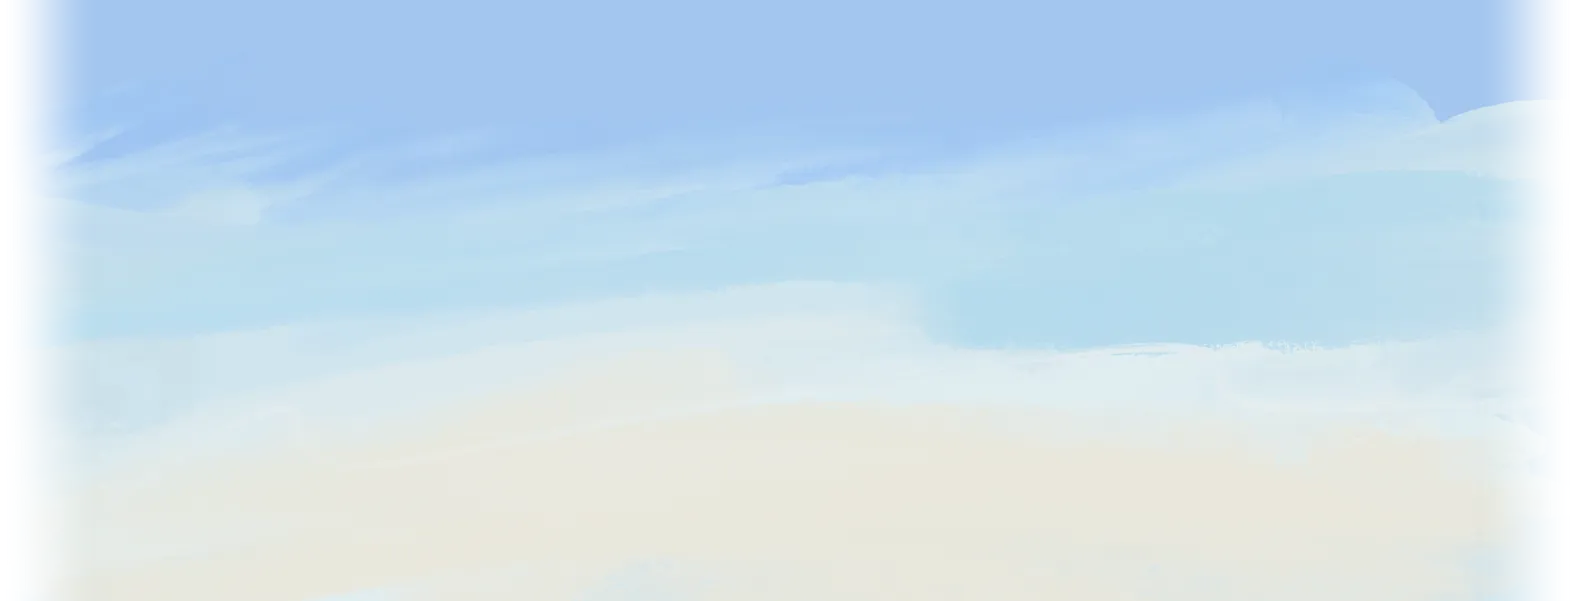
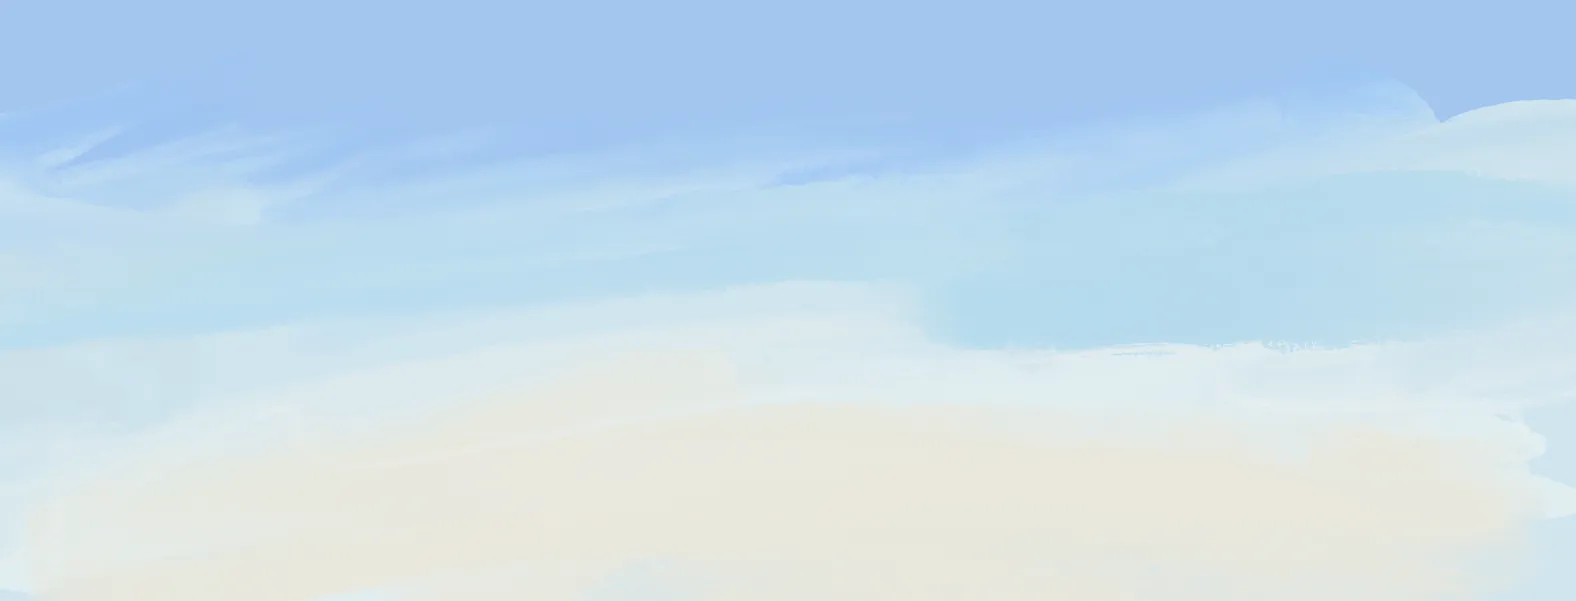
Sky band: continue past the painting with mirrored copies of the sky piece instead of edge gradients

Changed region(s): [[0.9327, 0.0, 1.0, 1.0], [0.0, 0.0, 0.0622, 1.0]]

diff --git a/app/assets/stylesheets/landing_world_sky.css b/app/assets/stylesheets/landing_world_sky.css
@@ -1,8 +1,7 @@
 /* Band: sky. Owned by the sky band agent only. Shared rules, colors, the --wu unit and the contract are in landing_world.css.
  *
  * The painted sky is sky@*.webp: canvas y 1498..2700 (601 wu tall), bottom edge on the bottom of .how, 1576 wu wide, centered. It is
- * opaque, but fades out over 100 wu at each side, where the .sky__edge gradients (the painting's own edge colors, blurred) carry it
- * past the painting's width. The whole .sky__paint layer fades in from nothing over its first 120 px, so the hero's flat blue
+ * opaque. Past its width mirrored copies of it carry it on (see below). The whole .sky__paint layer fades in from nothing over its first 120 px, so the hero's flat blue
  * (#9dc4fd) runs into the painting with no line, however tall .how turns out. Below the swoosh the wrapper clips the paint at
  * the top of .how. The sky continues under the clifftop (the cliff band covers it), so the bottom of .how is never seen as sky.
  * The pole foot of the signpost is the one thing that must land on the cliff band's art: see .how__inner below. */
@@ -13,15 +12,18 @@
   -webkit-mask-image: linear-gradient(to bottom, transparent, #000 120px); mask-image: linear-gradient(to bottom, transparent, #000 120px);
 }
 .landing .world__sky { left: 50%; bottom: 0; width: calc(var(--wu) * 1576); margin-left: calc(var(--wu) * -788); }
-.landing .sky__edge { position: absolute; bottom: 0; height: calc(var(--wu) * 601); width: max(0px, calc(50% - var(--wu) * 688)); }
-.landing .sky__edge--left {
-  left: 0;
-  background: linear-gradient(to bottom, #a3c6ef 0%, #a3c6ef 12.5%, #a3c7f0 16.6%, #a1c8f3 20.8%, #a7ccf3 25%, #b7d6f2 29.1%, #c2ddf0 33.3%, #bedbf0 37.4%, #c2dcee 41.6%, #c6deeb 45.8%, #c3deec 49.9%, #bedeee 54.1%, #c4dfec 58.2%, #cce1eb 62.4%, #cce0eb 66.6%, #cfe3ec 70.7%, #d5e6ed 74.9%, #d6e7ed 79%, #dae9ed 83.2%, #dce9ec 87.4%, #dfebed 91.5%, #e0edef 95.7%, #d3e6ef 99.8%);
-}
-.landing .sky__edge--right {
-  right: 0;
-  background: linear-gradient(to bottom, #a3c6ef 0%, #a3c6ef 12.5%, #b8d5ee 16.6%, #c7dfed 20.8%, #cbe2ed 25%, #cae2ed 29.1%, #bdddee 33.3%, #bedeed 37.4%, #c5e0ec 41.6%, #c5dfec 45.8%, #c8e1ed 49.9%, #d0e4ed 54.1%, #d4e5ed 58.2%, #d6e7ef 62.4%, #d4e7ef 66.6%, #d0e5ef 70.7%, #d0e5ef 74.9%, #d4e7ef 79%, #dfedf0 83.2%, #d3e7ef 87.4%, #d0e5ef 91.5%, #d0e5ef 95.7%, #d0e5ef 99.8%);
-}
+/* Copies one and two painting widths out on each side. Narrower than the painting they would be off screen, so they are not shown
+   (and not loaded) until the window is wider than it. The first copy on a side is mirrored about the painting's edge, so the
+   two meet as one brushstroke; the second is the plain piece again. */
+.landing .world .sky__copy { display: none; }
+.landing .sky__copy--l1 { transform: translateX(calc(var(--wu) * -1576)); }
+.landing .sky__copy--r1 { transform: translateX(calc(var(--wu) * 1576)); }
+.landing .sky__copy--l2 { transform: translateX(calc(var(--wu) * -3152)); }
+.landing .sky__copy--r2 { transform: translateX(calc(var(--wu) * 3152)); }
+.landing .sky__copy--mirror.sky__copy--l1 { transform: translateX(calc(var(--wu) * -1576)) scaleX(-1); }
+.landing .sky__copy--mirror.sky__copy--r1 { transform: translateX(calc(var(--wu) * 1576)) scaleX(-1); }
+@media (min-width: 1580px) { .landing .world .sky__copy--l1, .landing .world .sky__copy--r1 { display: block; } }
+@media (min-width: 3200px) { .landing .world .sky__copy--l2, .landing .world .sky__copy--r2 { display: block; } }
 
 /* Clouds, at the painting's spots: canvas x 203..951 and 2078..2826, y 1851..2045 and 1985..2179, so their bottoms are 327 and 260 wu
    above the bottom of .how. The signpost's boards are wider than a phone, so each cloud may only use the sky beside the boards

diff --git a/script/export_landing_world.py b/script/export_landing_world.py
@@ -84,34 +84,16 @@ art.save(work / "art-clean-full.png")
 # 1. Cloud (layer 32; layer 33 is the same cloud, so one file serves both): sky band.
 layer = layer_full(32)
 save("sky", "cloud", layer.crop(layer.getchannel("A").getbbox()))
-# 1b. The sky itself (layer 2, which also runs under the clifftop): opaque, faded out at both sides; the printed edge colors fill the
-#     band past it (landing_world_sky.css).
-SKY_Y0, SKY_Y1 = 1498, 2700   # the sky layer (2) under the hero swoosh down to the .how bottom
-SKY_FADE = 200                # px each side that fade out; the band fills past them with an edge gradient
+# 1b. The sky itself (layer 2, which also runs under the clifftop): opaque, full width. The page shows mirrored copies of it past
+#     both sides (landing_world_sky.css), so its left and right edges must stay the painting's own.
+SKY_Y0, SKY_Y1 = 1498, 2700   # from under the hero swoosh down to the .how bottom
 sky = layer_full(2).crop((0, SKY_Y0, W, SKY_Y1))
 top = np.array(sky.getchannel("A"))[100:200, 800:2400] > 250  # a solid stretch, to take the flat top color from
 rgb = np.array(sky.convert("RGB"))
 top_color = tuple(int(v) for v in np.median(rgb[100:200, 800:2400][top], axis=0))
 flat = Image.new("RGBA", sky.size, top_color + (255,))
 flat.alpha_composite(sky)                                  # no transparent holes where the painted edge dips under the swoosh
-base = np.array(flat)
-ramp = np.linspace(0, 1, SKY_FADE)
-smooth = ramp * ramp * (3 - 2 * ramp)
-edge = np.ones(W, dtype=np.float32)
-edge[:SKY_FADE], edge[-SKY_FADE:] = smooth, smooth[::-1]
-fade = flat.copy()
-fade.putalpha(Image.fromarray((np.tile(edge, (flat.height, 1)) * 255).astype(np.uint8)))
-save("sky", "sky", fade)
-# The band beyond 1576 px is filled with each edge's own colors, blurred so no brushwork streaks sideways.
-for side, cols in (("left", base[:, :60]), ("right", base[:, -60:])):
-    col = cols[:, :, :3].mean(axis=1)
-    k = np.exp(-0.5 * (np.arange(-60, 61) / 20.0) ** 2)
-    k /= k.sum()
-    pad = np.pad(col, ((60, 60), (0, 0)), mode="edge")
-    sm = np.stack([np.convolve(pad[:, c], k, mode="valid") for c in range(3)], axis=1)
-    stops = ", ".join("#%02x%02x%02x %gwu" % (*(int(round(v)) for v in sm[y]), y / 2) for y in range(0, flat.height, 50))
-    print("sky edge", side, stops)
-print("sky top color", "#%02x%02x%02x" % top_color)
+save("sky", "sky", flat)
 
 # 2. Cliff: the clifftop, its crack and its face (layer 29 is the transparent cut), and the shadow and flat lower teal
 #    under the face down to CLIFF_Y1. Everything below the face is opaque.
